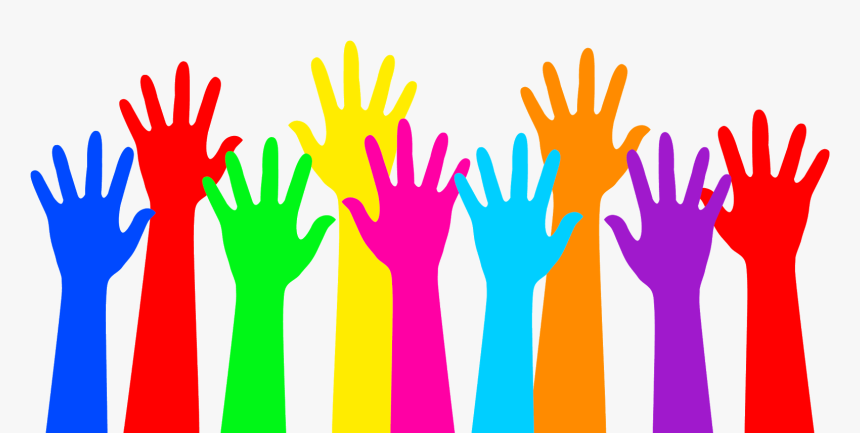
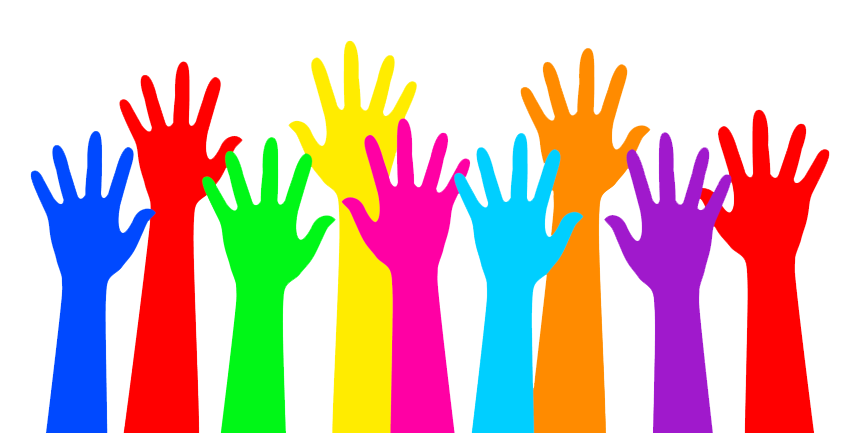
Correcciones a la pagina principal, nuevos colores y diseños

diff --git a/public/css/custom.css b/public/css/custom.css
@@ -1,3 +1,6 @@
+body {
+    background-color: white;
+}
 /* Custom image view */
 .myImg {
     border-radius: 5px;
@@ -9,7 +12,7 @@
 .modal-img {
     display: none; /* Hidden by default */
     position: fixed; /* Stay in place */
-    z-index: 1; /* Sit on top */
+    z-index: 3; /* Sit on top */
     padding-top: 100px; /* Location of the box */
     left: 0;
     top: 0;
@@ -88,18 +91,27 @@ input[type="file"] {
     color: rgb(180, 5, 180);
 }
 .titulo2 {
-    color: rgb(216, 78, 54);
+    color: rgb(206, 109, 70);
+    font-weight: bolder;
+}
+.titulo3 {
+    color: rgb(223, 115, 73);
     font-weight: bolder;
 }
 
-#actividad {
+#inicio {
+    background: linear-gradient(white, dodgerblue);
     background-color: dodgerblue;
 }
+
+#actividad {
+    background: #03CEA4;
+}
 #categoria {
-    background-color: rgb(43, 160, 140);
+    background-color: dodgerblue;
 }
 #galeria {
-    background-color: slateblue;
+    background-color: rgb(150, 21, 150);
 }
 
 /* Cards para categorias y actividades */
@@ -293,4 +305,30 @@ ul li{
 }
 #logo_sntsa {
     margin: 0px 10px 0px 0px
+}
+
+
+/* Sliding words */
+.box {
+    width: 100%;
+    box-shadow: 0px 5px 4px rgba(0, 0, 0, 0.4);
+    color:white;
+    font-weight: bolder;
+    font-size: 1.5em;
+    position: fixed;
+    z-index: 2;
+}
+.hashtags {
+    display: inline-block;
+    white-space: nowrap;
+    animation: floatText 15s infinite linear;
+    padding-left: 100%; /*Initial offset, which places the text off-screen*/
+  }
+  @keyframes floatText {
+    to {
+      transform: translateX(-100%);
+    }
+  }
+.mr-10 {
+    margin-right: 100px;
 }

diff --git a/resources/views/principal/index.blade.php b/resources/views/principal/index.blade.php
@@ -4,18 +4,75 @@
     @include('layout.navigation')
 @endsection
 @section('section')
-<div class="container text-center">
-    @if(isset(Auth::user()->normal))
-        <h1 class="display-4 titulo2">Bienvenido {{Auth::user()->normal->nombre}} {{Auth::user()->normal->apellido_paterno}}</h1>
-    @else
-        <h1 class="display-4 titulo2">Bienvenidos</h1>
-    @endif
-    <h3>Aquí podrás realizar muchos</h3>
-    <h3>tipos de actividades</h3>
-    <audio controls>
-         <source src = "/audio/himno.mpeg" type = "audio/mpeg">
-      </audio>
-    <img class="img-fluid" src="/images/app/hands.png" alt="principal">
+<div id="inicio" class="">
+    <div class="container text-center">
+        @if(isset(Auth::user()->normal))
+            <h1 class="display-4 titulo3">Bienvenido {{Auth::user()->normal->nombre}} {{Auth::user()->normal->apellido_paterno}}</h1>
+        @else
+            <h1 class="display-4 titulo3">Bienvenidos</h1>
+        @endif
+        <h3>Aquí podrás realizar muchos</h3>
+        <h3>tipos de actividades</h3>
+        <audio controls>
+            <source src = "/audio/himno.mpeg" type = "audio/mpeg">
+        </audio>
+        <img class="img-fluid" src="/images/app/hands.png" alt="principal">
+    </div>
+</div>
+
+<div id="categoria">
+    <br><br>
+    <div class="container">
+        <div class="text-center text-white">
+            <h1>Categorías de la semana</h1>
+            <p class="d-sm-block d-md-block d-lg-none">Desliza para ver más</p>
+            <img class="img-fluid d-sm-block d-md-block d-lg-none" src="/images/app/arrow.png" width="130"  alt="first-arrow">
+        </div>
+        <div class="table-responsive table-borderless">
+            <table id="myTable" class="table text-center">
+                <thead>
+                    <tr>
+                        <th scope="col"></th>
+                        <th scope="col"></th>
+                        <th scope="col"></th>
+                    </tr>
+                </thead>
+                <tbody id="id01">
+                    <tr>
+                    @foreach($categorias as $categoria)
+                        <td scope="row">
+                            <a href="{{ route ('verCategoria', $categoria->nombre) }}">
+                                <div class="wrapper">
+                                    <div class="container">
+                                        <div class="top" style="background: url('/images/{{$categoria->imagen}}') no-repeat center center;">
+                                        </div>
+                                        <div class="bottom">
+                                            <h2>{{$categoria->nombre}}</h2>
+                                        </div>
+                                    </div>
+                                </div>
+                            </a>
+                        </td>
+                    @endforeach
+                        <td scope="row">
+                            <a href="{{ url ('categorias') }}">
+                                <div class="wrapper">
+                                    <div class="container">
+                                        <div class="top" style="background: url('/images/app/plus.png') no-repeat center center;">
+                                        </div>
+                                        <div class="bottom">
+                                            <h1>Ver Más</h1>
+                                        </div>
+                                    </div>
+                                </div>
+                            </a>
+                        </td>
+                    </tr>
+                </tbody>
+            </table>
+        </div>
+    </div>
+    <br>
 </div>
 <div id="actividad">
     <br><br>
@@ -53,61 +110,6 @@
                     @endforeach
                         <td scope="row">
                             <a href="{{ url ('actividades') }}">
-                                <div class="wrapper">
-                                    <div class="container">
-                                        <div class="top" style="background: url('/images/app/plus.png') no-repeat center center;">
-                                        </div>
-                                        <div class="bottom">
-                                            <h1>Ver Más</h1>
-                                        </div>
-                                    </div>
-                                </div>
-                            </a>
-                        </td>
-                    </tr>
-                </tbody>
-            </table>
-        </div>
-    </div>
-    <br>
-</div>
-<div id="categoria">
-    <br><br>
-    <div class="container">
-        <div class="text-center text-white">
-            <h1>Categorías</h1>
-            <p class="d-sm-block d-md-block d-lg-none">Desliza para ver más</p>
-            <img class="img-fluid d-sm-block d-md-block d-lg-none" src="/images/app/arrow.png" width="130"  alt="first-arrow">
-        </div>
-        
-        <div class="table-responsive table-borderless">
-            <table id="myTable" class="table text-center">
-                <thead>
-                    <tr>
-                        <th scope="col"></th>
-                        <th scope="col"></th>
-                        <th scope="col"></th>
-                    </tr>
-                </thead>
-                <tbody id="id01">
-                    <tr>
-                    @foreach($categorias as $categoria)
-                        <td scope="row">
-                            <a href="{{ route ('verCategoria', $categoria->nombre) }}">
-                                <div class="wrapper">
-                                    <div class="container">
-                                        <div class="top" style="background: url('/images/{{$categoria->imagen}}') no-repeat center center;">
-                                        </div>
-                                        <div class="bottom">
-                                            <h2>{{$categoria->nombre}}</h2>
-                                        </div>
-                                    </div>
-                                </div>
-                            </a>
-                        </td>
-                    @endforeach
-                        <td scope="row">
-                            <a href="{{ url ('categorias') }}">
                                 <div class="wrapper">
                                     <div class="container">
                                         <div class="top" style="background: url('/images/app/plus.png') no-repeat center center;">

diff --git a/resources/views/layout/navigation.blade.php b/resources/views/layout/navigation.blade.php
@@ -1,24 +1,42 @@
 @section('navigation')
-<br>
+<div class="bg-primary box">
+  <div class="container">
+    <marquee behavior="scroll">
+      <div class="d-flex">
+        <div class="mr-10">
+          #OrgullosamenteSección21
+        </div>
+        <div class="mr-10">
+          #FabioMeza
+        </div>
+        <div class="mr-10">
+          #Ser21
+        </div> 
+      </div>
+    </marquee>  
+  </div>
+</div>
 <div class="container">
-<div class="row text-center">
-    <div class="col">
-      <img class="img-fluid" width="30" src="/images/app/logo_sntsa.webp" alt="logo_sntsa">
-    </div>
-    <div class="col">
-      <h4 class="titulo">CONVIVENCIAS VIRTUALES</h4>
-    </div>
-    @if(Auth::user())
-    <div class="col">
-        <a class="btn btn-sm btn-outline-danger" href="{{ url ('logout') }}">Salir</a>
-    </div>
-    @else
-    <div class="col">
-      <a class="btn btn-sm btn-success" href="{{ url ('login/iniciar') }}">Acceder</a>
-    </div>
-    @endif
+<br><br><br>
+  <div class="row text-center">
+      <div class="col">
+        <img class="img-fluid" width="30" src="/images/app/logo_sntsa.webp" alt="logo_sntsa">
+      </div>
+      <div class="col">
+        <h4 class="titulo">CONVIVENCIAS VIRTUALES</h4>
+      </div>
+      @if(Auth::user())
+      <div class="col">
+          <a class="btn btn-sm btn-outline-danger" href="{{ url ('logout') }}">Salir</a>
+      </div>
+      @else
+      <div class="col">
+        <a class="btn btn-sm btn-success" href="{{ url ('login/iniciar') }}">Acceder</a>
+      </div>
+      @endif
+  </div>
 </div>
-</div>
+
 <br>
     <ul class="nav justify-content-center">
       <li class="nav-item mr-1 p-1">
@@ -29,10 +47,10 @@
       @endif
       </li>
       <li class="nav-item mr-1 p-1">
-        <a class="btn @if($opt == 'actividades') btn-primary @else btn-outline-primary @endif nav-link" href="{{ url ('actividades') }}">Actividades</a>
+        <a class="btn @if($opt == 'categorias') btn-primary @else btn-outline-primary @endif nav-link" href="{{ url ('categorias') }}">Categorías</a>
       </li>
       <li class="nav-item mr-1 p-1">
-        <a class="btn @if($opt == 'categorias') btn-primary @else btn-outline-primary @endif nav-link" href="{{ url ('categorias') }}">Categorías</a>
+        <a class="btn @if($opt == 'actividades') btn-primary @else btn-outline-primary @endif nav-link" href="{{ url ('actividades') }}">Actividades</a>
       </li>
       <li class="nav-item mr-1 p-1">
         <a class="btn @if($opt == 'galeria') btn-primary @else btn-outline-primary @endif nav-link" href="{{ url ('galeria') }}">Galería</a>

diff --git a/resources/views/principal/galeria.blade.php b/resources/views/principal/galeria.blade.php
@@ -7,7 +7,7 @@
 <div class="container text-center">
     <h1 class="display-4 titulo2">Galería de fotos</h1>
 </div>
-<div id="actividad">
+<div id="galeria">
     <br><br>
     <div class="container text-center">
         <div class="row">
